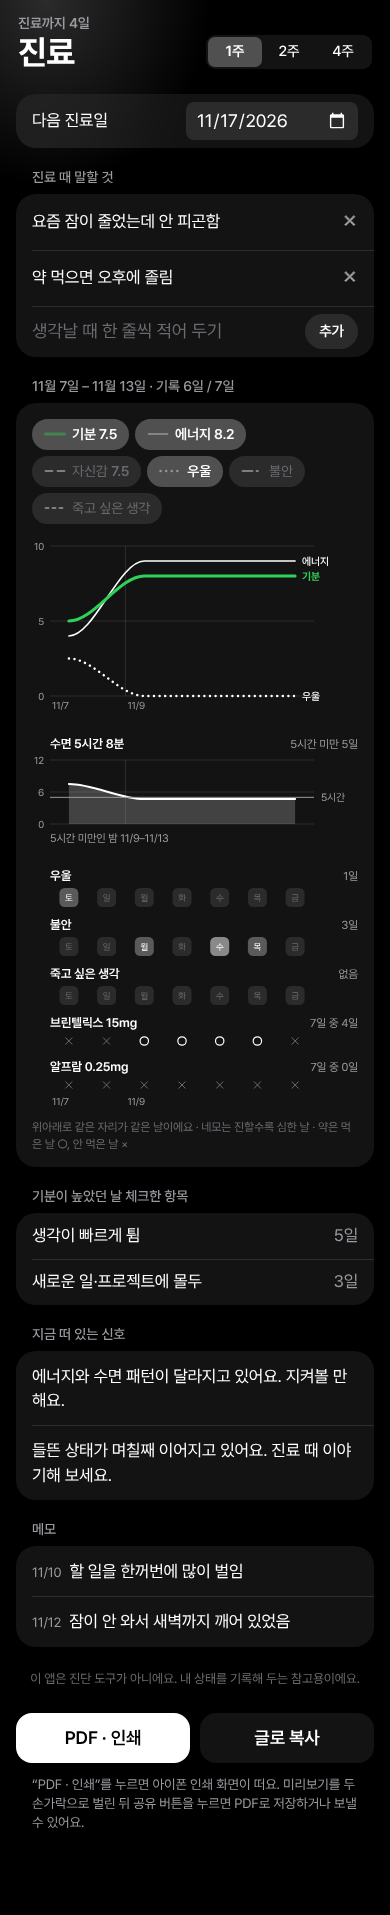
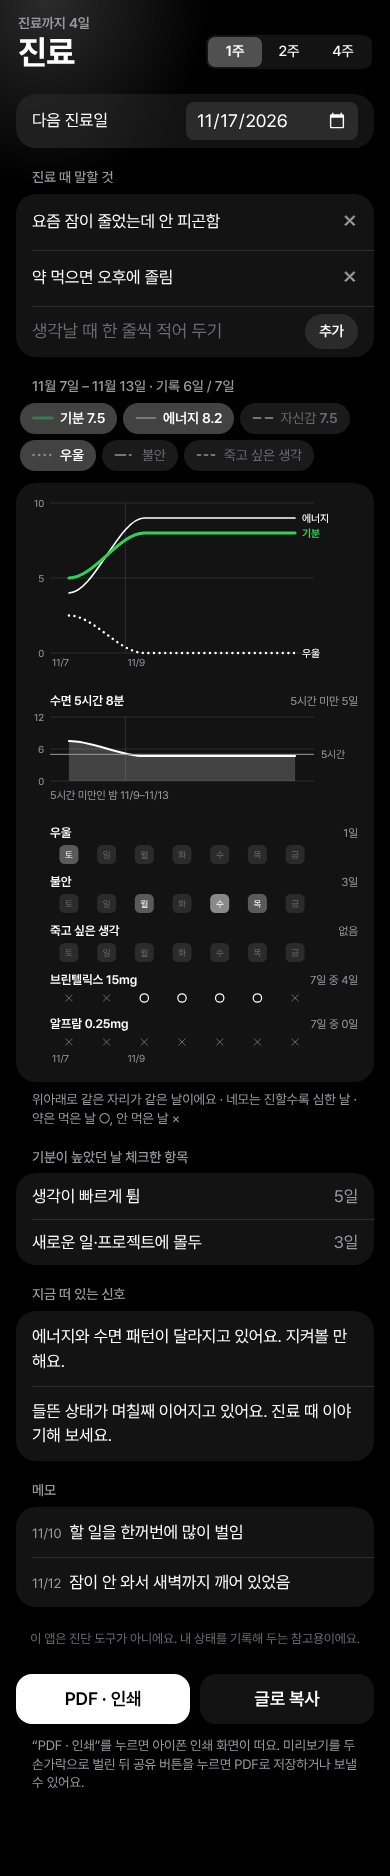
Tide: 2- and 4-week clinic summaries are drawn one week per card
Squeezing 14 or 28 days onto one axis made the squares and marks too small to read. Each week now gets the same card as the 1-week view (chart, sleep, symptom squares, medication), stacked oldest first, with the line buttons shown once above. summary() takes a look-back so a single past week can be summarised.

Claude-Session: https://claude.ai/code/session_01Du4KAy7crrN67i73oW7iBF

diff --git a/mood/js/views/clinic.js b/mood/js/views/clinic.js
@@ -56,7 +56,7 @@ function dateRanges(list) {
 // 요약에 들어가는 그림 세 장: 큰 그래프(켜 둔 선들, 선 끝에 이름) · 수면(곡선) · 줄들(증상 네모, 약 ○×, 생리 ○).
 // 셋 다 같은 너비와 여백으로 그려서, 위아래로 같은 자리가 같은 날이다 (약을 안 먹은 날의 기분·증상이 한 줄로 이어져 보인다).
 // 선은 전부 부드러운 실선이다. 색은 CSS 변수를 따라가서 다크·라이트·인쇄에서 그대로 읽힌다.
-function figures(s, width) {
+function figures(s, width, SH) {
   // 오른쪽에는 선 끝 이름이 들어갈 자리를 둔다 (이름이 긴 "죽고 싶은 생각"을 켰을 때만 넓게)
   const n = s.dates.length, L = 18, R = clinicView.lines.includes('si') ? 80 : 44, pw = width - L - R, col = pw / n;
   const cx = (i) => L + col * (i + 0.5);
@@ -66,7 +66,7 @@ function figures(s, width) {
 
   // 지금까지 그린 것을 그림 한 장으로 마무리하고 다음 장을 시작한다
   const take = (id, height) => {
-    const svg = `<svg id="${id}" width="${width}" height="${height}" role="img">${out}</svg>`;
+    const svg = `<svg class="${id}" width="${width}" height="${height}" role="img">${out}</svg>`;
     out = ''; y = 12;
     return svg;
   };
@@ -92,7 +92,7 @@ function figures(s, width) {
   const floor = (at) => { out += `<line x1="${L}" x2="${L + pw}" y1="${at}" y2="${at}" style="stroke:var(--line)"/>`; };
 
   // 1. 큰 그래프: 켜 둔 선들을 한 축 위에. 선 끝에 이름을 적는다 (겹치면 아래로 민다).
-  const SH = 150, top = y, sy = (v) => top + (1 - v / 10) * SH;
+  const top = y, sy = (v) => top + (1 - v / 10) * SH;
   [0, 5, 10].forEach((v) => { floor(sy(v)); out += `<text x="${L - 6}" y="${sy(v) + 3.5}" font-size="10" text-anchor="end" ${mutedText}>${v}</text>`; });
   weekLines(top, top + SH);
   const ends = [];
@@ -186,19 +186,22 @@ function summaryRows(s) {
 function summaryHtml(weeks) {
   const s = summary(weeks);
   const width = Math.max(240, Math.min(app.clientWidth, 480) - 32 - 32);
-  const fig = figures(s, width);
+  // 그림은 한 주에 한 장씩 그린다 (하루 칸이 넓어야 읽힌다). 2주·4주는 같은 모양의 카드가 오래된 주부터 차례로 쌓인다.
+  const stack = (b) => {
+    const fig = figures(b, width, weeks > 1 ? 104 : 150);
+    return `<section class="card sum-stack">
+      ${weeks > 1 ? `<div class="sum-week">${md(parse(b.dates[0]))} – ${md(parse(b.dates[6]))}</div>` : ''}
+      ${toggles ? fig.chart : ''}${itemOn('sleep') ? fig.sleep : ''}${fig.rows}</section>`;
+  };
   // 큰 그래프의 선을 켜고 끄는 단추: 기분·에너지·자신감은 평균을 옆에 적는다
   const toggles = lineDefs().map(([key, name, max]) => `<button class="sum-tog" data-act="clinicLine" data-k="${key}" aria-pressed="${clinicView.lines.includes(key)}">${lineSample(key)}${name}${max === 10 && s[key] ? ` <b>${one(s[key].avg)}</b>` : ''}</button>`).join('');
   const signs = s.signs.map(([name, c]) => li(esc(name), F('{0}일', c)));
   const says = (title, rows) => (rows.length ? `<div class="sec">${title}</div><section class="card list">${rows.join('')}</section>` : '');
   return `
     <div class="sec">${md(parse(s.dates[0]))} – ${md(parse(s.dates[s.dates.length - 1]))} · ${F('기록 {0}일 / {1}일', s.got.length, s.dates.length)}</div>
-    <section class="card sum-stack">
-      ${toggles ? `<div class="sum-togs">${toggles}</div>${fig.chart}` : ''}
-      ${itemOn('sleep') ? fig.sleep : ''}
-      ${fig.rows}
-      <p class="sum-key">${T('위아래로 같은 자리가 같은 날이에요 · 네모는 진할수록 심한 날 · 약은 먹은 날 ○, 안 먹은 날 ×')}</p>
-    </section>
+    ${toggles ? `<div class="sum-togs">${toggles}</div>` : ''}
+    ${Array.from({ length: weeks }, (_, i) => stack(summary(1, (weeks - 1 - i) * 7))).join('')}
+    <p class="secnote">${T('위아래로 같은 자리가 같은 날이에요 · 네모는 진할수록 심한 날 · 약은 먹은 날 ○, 안 먹은 날 ×')}</p>
     ${says(T('기분이 높았던 날 체크한 항목'), signs)}
     ${says(T('지금 떠 있는 신호'), s.signals.map((x) => `<div class="li say">${esc(x)}</div>`))}
     ${says(T('메모'), s.notes.map(([d, note]) => `<div class="li say note"><small>${shortDate(d)}</small> ${esc(note)}</div>`))}

diff --git a/mood/tests/smoke.js b/mood/tests/smoke.js
@@ -198,13 +198,13 @@ function seed() {
 
   // 5-2. 진료 탭: 다음 진료일, 말할 것, 요약
   await page.click('[data-tab=clinic]');
-  check('진료용 요약에 그림과 눈에 띄는 날, 약이 나옴', (await page.$$('#sum-rows circle')).length > 3 && (await page.$$('#sum-fig path')).length >= 3 && (await page.$$('#sum-rows rect')).length % 14 === 0 && (await page.$$('#sum-rows rect[style]')).length > 0
-    && (await text('#sum-rows')).includes('우울') && (await text('#sum-rows')).includes('브린텔릭스') && (await text('#sum-sleep')).includes('5시간 미만'));
-  const anxOff = !(await text('#sum-fig')).includes('불안');
+  check('진료용 요약에 그림과 눈에 띄는 날, 약이 나옴', (await page.$$('.sum-rows circle')).length > 3 && (await page.$$('.sum-fig path')).length >= 3 && (await page.$$('.sum-rows rect')).length % 14 === 0 && (await page.$$('.sum-rows rect[style]')).length > 0
+    && (await text('.sum-rows')).includes('우울') && (await text('.sum-rows')).includes('브린텔릭스') && (await text('#summary')).includes('5시간 미만'));
+  const anxOff = !(await text('.sum-fig')).includes('불안');
   await page.click('.sum-tog[data-k=anx]');
-  check('큰 그래프에서 선을 켜고 끔', anxOff && (await text('#sum-fig')).includes('불안') && (await page.getAttribute('.sum-tog[data-k=anx]', 'aria-pressed')) === 'true');
+  check('큰 그래프에서 선을 켜고 끔', anxOff && (await text('.sum-fig')).includes('불안') && (await page.getAttribute('.sum-tog[data-k=anx]', 'aria-pressed')) === 'true');
   await page.click('.sum-tog[data-k=anx]');
-  check('요약 그림이 카드 밖으로 안 넘침', await page.evaluate(() => [...document.querySelectorAll('#summary svg')].every((el) => el.getBoundingClientRect().right <= el.closest('.card').getBoundingClientRect().right)));
+  check('요약 그림이 카드 밖으로 안 넘침', await page.evaluate(() => [...document.querySelectorAll('#summary .card svg')].every((el) => el.getBoundingClientRect().right <= el.closest('.card').getBoundingClientRect().right)));
   await page.fill('#c-note', '약 먹으면 오후에 졸림'); await page.press('#c-note', 'Enter');
   check('말할 것 추가 (엔터)', (await store()).clinic.notes[0] === '약 먹으면 오후에 졸림' && (await text('#summary')).includes('약 먹으면 오후에 졸림'));
   await page.fill('#c-next', dayAgo(-3));
@@ -212,7 +212,7 @@ function seed() {
   await page.click('[data-act=clinicWeeks][data-w="4"]');
   check('4주 요약', (await text('#summary')).includes('/ 28일'));
   await page.click('[data-act=clinicWeeks][data-w="1"]');
-  check('1주 요약: 요일이 적힌 네모가 날마다 한 칸', (await text('#summary')).includes('/ 7일') && (await page.$$('#sum-rows rect')).length % 7 === 0 && (await page.$$('#sum-rows rect + text')).length > 0);
+  check('1주 요약: 요일이 적힌 네모가 날마다 한 칸', (await text('#summary')).includes('/ 7일') && (await page.$$('.sum-rows rect')).length % 7 === 0 && (await page.$$('.sum-rows rect + text')).length > 0);
   await page.click('[data-act=clinicWeeks][data-w="4"]');
   await page.click('[data-act=copySummary]');
   check('요약을 글로 복사', await page.waitForFunction(() => document.querySelector('#toast').textContent === '복사했어요', null, { timeout: 3000 }).then(() => true, () => false));

diff --git a/mood/app.css b/mood/app.css
@@ -362,14 +362,14 @@ input[type=date] { border: 0; outline: none; background: var(--card2); color: va
 .lock-pad .lock-txt { background: none; font-family: inherit; font-size: calc(14px * var(--fs, 1.12)); color: var(--muted); }
 
 /* 진료용 요약: 선을 켜고 끄는 단추와 그림 */
-.sum-togs { display: flex; flex-wrap: wrap; gap: 6px; margin: 2px 0 16px; }
+.sum-togs { display: flex; flex-wrap: wrap; gap: 6px; margin: 0 4px 12px; }
+.sum-week { color: var(--muted); font-size: calc(12.5px * var(--fs, 1.12)); font-weight: 600; margin-bottom: 14px; }
 .sum-tog { background: var(--card2); border-radius: 999px; padding: 6px 12px; font-size: calc(12.5px * var(--fs, 1.12)); color: var(--faint); }
 .sum-tog b { font-family: var(--round); font-weight: 600; }
 #summary .sum-tog svg { display: inline-block; vertical-align: middle; margin: -2px 6px 0 0; opacity: .4; }
 .sum-tog[aria-pressed=true] svg { opacity: 1; }
 .sum-tog[aria-pressed=true] { background: var(--sel); color: var(--text); font-weight: 600; }
 #summary svg { display: block; overflow: visible; font-family: inherit; }
-.sum-key { color: var(--faint); font-size: calc(10.5px * var(--fs, 1.12)); margin: 8px 0 0; line-height: 1.45; }
 
 /* 진료용 요약: 그림들을 한 카드에 위아래로 쌓는다. 증상 네모의 빈 칸 색 */
 .sum-stack svg + svg { margin-top: 22px; }

diff --git a/mood/js/analysis.js b/mood/js/analysis.js
@@ -84,8 +84,9 @@ ${lines.join('\n') || '(기록 없음)'}`;
 
 // ---------- 진료용 요약: 최근 n주를 숫자로 정리 (화면·글·인쇄가 같이 쓴다) ----------
 export const SHORT_SLEEP = 300;   // 이 분(5시간)보다 짧게 잔 날을 따로 적는다
-export function summary(weeks) {
-  const n = weeks * 7, t = today();
+// back: 며칠 전에 끝나는 구간인지 (0이면 오늘까지). 주 단위로 나눠 그릴 때 쓴다.
+export function summary(weeks, back = 0) {
+  const n = weeks * 7, t = addDays(today(), -back);
   const dates = Array.from({ length: n }, (_, i) => addDays(t, i - n + 1));
   const days = dates.map((d) => db.entries[d] || null), got = days.filter(Boolean);
   const stat = (key) => {

diff --git a/mood/sw.js b/mood/sw.js
@@ -1,7 +1,7 @@
 // 오프라인에서도 열리도록 앱 파일을 저장해 둔다.
 // 인터넷이 될 때는 항상 최신 파일을 먼저 받아오고, 안 될 때만 저장본을 쓴다.
 // 앱 파일을 바꿔서 올릴 때마다 CACHE 숫자를 하나 올린다. js/ 에 파일을 더하면 JS 목록에도 더한다.
-const CACHE = 'tide-v55';
+const CACHE = 'tide-v56';
 const JS = ['main', 'config', 'i18n', 'constants', 'store', 'dates', 'theme', 'icons', 'dom', 'state', 'meds', 'analysis', 'files', 'render', 'swipe', 'lock',
   'views/today', 'views/trend', 'views/insight', 'views/record', 'views/settings', 'views/clinic', 'views/notes'];
 const FILES = ['./', 'index.html', 'app.css', 'manifest.webmanifest',

diff --git a/mood/js/config.js b/mood/js/config.js
@@ -2,4 +2,4 @@
 export const KEY = 'tide.v1', OLD_KEY = 'harugyeol.v1';
 
 // 설정 화면 맨 아래에 보이는 번호. 올릴 때마다 sw.js의 CACHE 숫자와 같이 하나 올린다.
-export const VERSION = 55;
+export const VERSION = 56;
